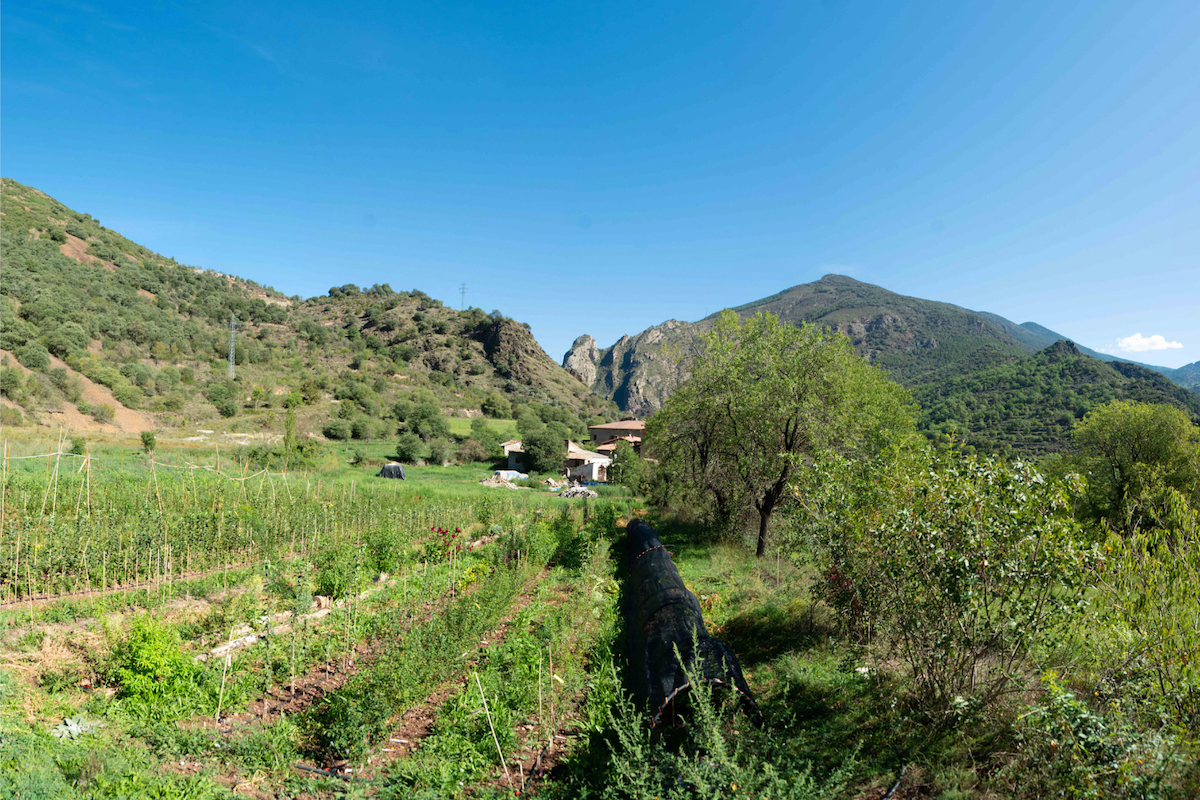
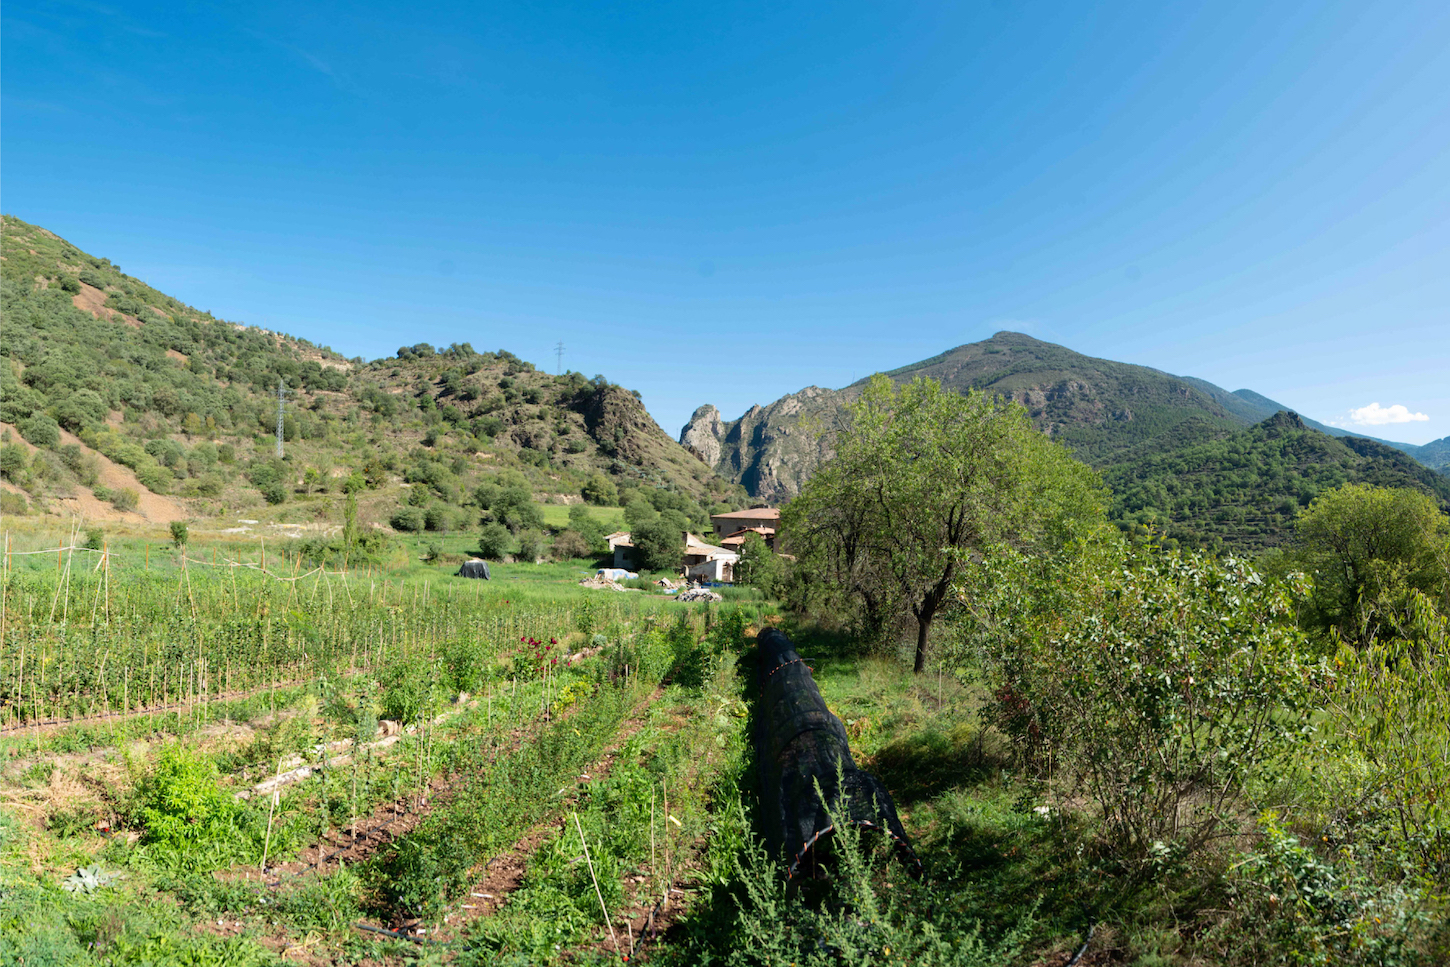
Resized hero image

diff --git a/index.html b/index.html
@@ -11,7 +11,7 @@
         <link type="text/css" rel="stylesheet" href="/assets/css/style.css">
     </head>
     <body>
-        <nav class="navbar navbar-expand-lg" style="background-color: #54843e;">
+        <nav class="navbar navbar-expand-md" style="background-color: #54843e;">
             <div class="container-fluid">
               <a class="navbar-brand" href="#">
                 <img src="/assets/images/logo.png" alt="Lo Verger" width="200" height="59">
@@ -22,15 +22,15 @@
               <div class="collapse navbar-collapse" id="navbarNavAltMarkup">
                 <div class="navbar-nav">
                   <a class="nav-link active" aria-current="page" href="#" style="color:white; font-weight: bold;">Qui som</a>
-                  <a class="nav-link" href="#" style="color:white">Els nostres arbres</a>
-                  <a class="nav-link" href="#" style="color:white">Consells i serveis</a>
-                  <a class="nav-link" href="#" style="color:white">Projectes amics</a>
-                  <a class="nav-link" href="#" style="color:white">Contacte</a>
+                  <a class="nav-link" href="#trees" style="color:white">Els nostres arbres</a>
+                  <a class="nav-link" href="#services" style="color:white">Consells i serveis</a>
+                  <a class="nav-link" href="#friends" style="color:white">Projectes amics</a>
+                  <a class="nav-link" href="#contact" style="color:white">Contacte</a>
                 </div>
               </div>
             </div>
           </nav>
-        <div class="p-5 text-center bg-image" style="background-image: url('/assets/images/hero.jpeg');height: 600px;">
+        <div class="p-5 text-center bg-image" style="background-image: url('/assets/images/hero.jpeg');height: 100vh; width: 100vw">
             <div class="mask" style="font-family: 'Laila';">
                 <div class="d-flex justify-content-center align-items-center h-100">
                     <div class="text-white">
@@ -40,34 +40,34 @@
                 </div>
             </div>
       </div>
-      <div class="row section">
-        <div class="col-sm-6">
+      <div class="row section" style="margin-left: 20px; margin-right: 20px;">
+        <div class="col-md-6">
           <div class="card">
             <div class="card-body">
               <h5 class="card-title">Special title treatment</h5>
               <p class="card-text">Empeltem i cultivem varietats tradicionals d’arbres fruiters del Pallars, del Pirineu i d’altres racons sense fer ús de cap pesticida, ni herbicida, ni adob químic. Hem seleccionat les varietats que cultivem pel seu gust, la resistència a malalties i per la seva adaptació a climes d’alta i mitja muntanya.</p>
-              <a href="#" class="btn btn-primary">Go somewhere</a>
+              <a href="#" class="btn btn-primary" style="background-color: #54843e;">Go somewhere</a>
             </div>
           </div>
         </div>
-        <div class="col-sm-6">
+        <div class="col-md-6">
           <div class="card">
             <img src="/assets/images/section1.jpeg"/>
           </div>
         </div>
       </div>
-      <div class="row section">
-        <div class="col-sm-6">
+      <div class="row section" style="margin-left: 20px; margin-right: 20px;">
+        <div class="col-md-6">
           <div class="card">
             <div class="card-body">
               <h5 class="card-title">Special title treatment</h5>
               <p style="color:black">Ja podeu fer la vostra comanda per l’hivern 2022 - 2023! </p>
                 <p style="color:black">Aquí trobareu les varietats d’arbres fruiters que us proposem. Escolliu les que estiguin més adaptades al vostre clima, al vostre sòl i al vostre gust!</p>
-              <a href="#" class="btn btn-primary">Go somewhere</a>
+              <a href="#" class="btn btn-primary" style="background-color: #54843e;">Go somewhere</a>
             </div>
           </div>
         </div>
-        <div class="col-sm-6">
+        <div class="col-md-6">
           <div class="card">
             <img src="/assets/images/section2.jpeg"/>
           </div>
